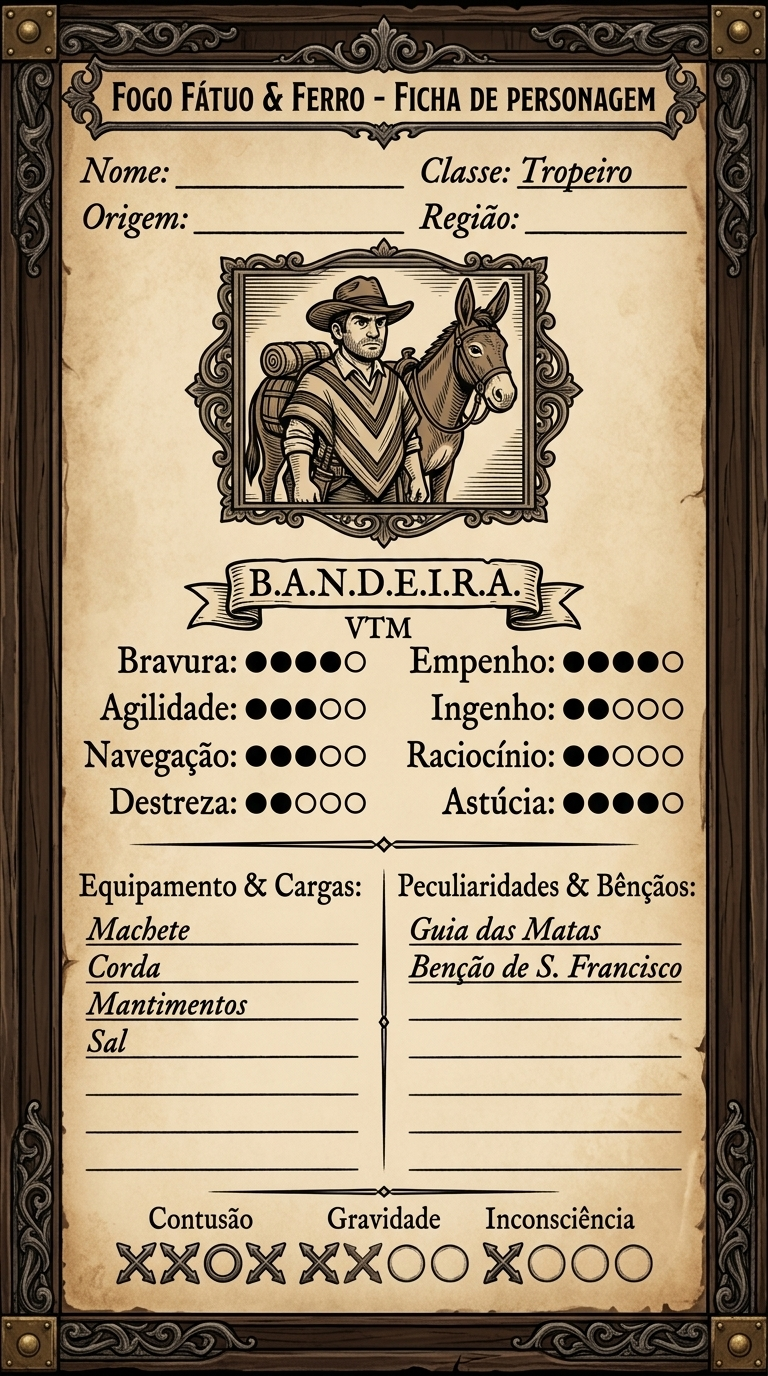
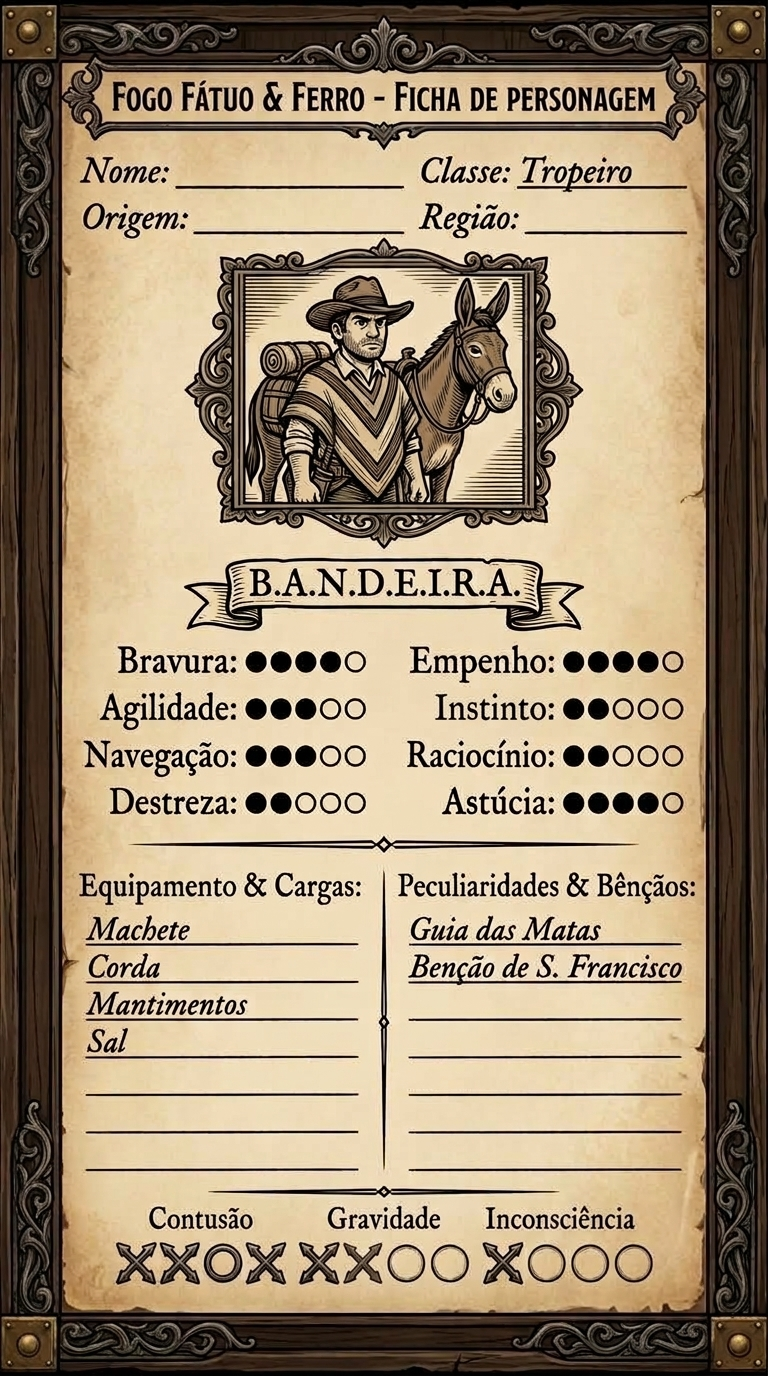
fix: atualizar o atributo I de BANDEIRA para Instinto em todas as fichas, regras e design visual da ficha

diff --git a/Docs/SISTEMA_BANDEIRA.md b/Docs/SISTEMA_BANDEIRA.md
@@ -55,12 +55,12 @@ O sistema **B.A.N.D.E.I.R.A.** é a matriz primária universal de atributos de *
   * Limite de peso de carga nas bruacas e inventário individual.
   * Resistência a venenos, febres da várzea e exaustão por sede ou fome.
 
-### 6. 🌿 I – Ingenho (Engenho / Intelecto)
-* **O que mede:** Conhecimento técnico de manufatura colonial, identificação de ervas e minérios, línguas/dialetos e manipulação de pólvora/ferro.
+### 6. 👁 I – Instinto
+* **O que mede:** Reação intuitiva, sexto sentido de sobrevivência na mata, leitura de perigo iminente, pressentimento e ação reflexiva sob pressão.
 * **Aplicações no Jogo:**
-  * Preparo de remédios, cataplasmas de copaíba e antídotos.
-  * Forja rápida de lâminas, reparo de armas de fogo e engenhocas de acampamento.
-  * Diálogo em múltiplos idiomas de 1645 (Português, Nheengatu/Tupi antigo, Holandês, Quimbundo).
+  * Notar emboscadas antes do primeiro golpe ou tiro.
+  * Reação visceral no combate (evitar golpes críticos e desarmes surpresa).
+  * Sentir a aproximação de entidades sobrenaturais pelo arrepio na espinha e silêncio da mata.
 
 ### 7. 🧠 R – Raciocínio
 * **O que mede:** Prontidão mental, concentração sob estresse, velocidade analítica e resistência a ilusões mentais.
@@ -80,11 +80,11 @@ O sistema **B.A.N.D.E.I.R.A.** é a matriz primária universal de atributos de *
 
 ## ⚖ Tabela Canônica dos Personagens e Entidades
 
-| Personagem / Entidade | B (Bravura) | A (Agilidade) | N (Navegação) | D (Destreza) | E (Empenho) | I (Ingenho) | R (Raciocínio) | A (Astúcia) | Foco Principal |
+| Personagem / Entidade | B (Bravura) | A (Agilidade) | N (Navegação) | D (Destreza) | E (Empenho) | I (Instinto) | R (Raciocínio) | A (Astúcia) | Foco Principal |
 | :--- | :---: | :---: | :---: | :---: | :---: | :---: | :---: | :---: | :--- |
 | 🤠 **O Tropeiro Paulista** | 3 | 2 | **5** | 3 | **4** | 3 | 3 | **5** | Navegação de Rotas, Cargas & Lábia Comercial |
-| 🏹 **Papa Pin (Nativo)** | 3 | **5** | **5** | **5** | 3 | 4 | 4 | 2 | Agilidade Máxima, Tiro Certeiro & Mata |
+| 🏹 **Papa Pin (Nativo)** | 3 | **5** | **5** | **5** | 3 | **4** | 4 | 2 | Agilidade Máxima, Tiro Certeiro & Mata |
 | ⚔ **Desertor da Coroa** | **4** | 2 | 2 | **4** | **4** | 3 | 3 | 2 | Combate Bélico, Pólvora & Resistência Física |
-| 🐗 **A Caipora** | **4** | 4 | **5** | 4 | **4** | 3 | 4 | 3 | Domínio da Fauna, Montaria & Emboscada |
-| 👹 **A Mula sem Cabeça** | **5** | **5** | 3 | 2 | **4** | 1 | 2 | **5** | Carga Rápida de Fogo & Aura de Pavor |
-| 🌿 **O Curupira (Reserva)**| 3 | **5** | **5** | 4 | 3 | 4 | **5** | **5** | Celeridade, Ilusão Mental & Sentido da Mata |
+| 🐗 **A Caipora** | **4** | 4 | **5** | 4 | **4** | **4** | 4 | 3 | Domínio da Fauna, Montaria & Emboscada |
+| 👹 **A Mula sem Cabeça** | **5** | **5** | 3 | 2 | **4** | 2 | 2 | **5** | Carga Rápida de Fogo & Aura de Pavor |
+| 🌿 **O Curupira (Reserva)**| 3 | **5** | **5** | 4 | 3 | **5** | **5** | **5** | Celeridade, Ilusão Mental & Sentido da Mata |

diff --git a/Fichas/Jogador - Desertor.md b/Fichas/Jogador - Desertor.md
@@ -14,7 +14,7 @@
 * **N – Navegação: 2** *(Depende de marcos de fronteira e estradas reais; perde-se facilmente na mata fechada virgem)*
 * **D – Destreza: 4** *(Especialista em armas de pólvora: pontaria cirúrgica com bacamarte, arcabuz e manuseio de pólvora)*
 * **E – Empenho: 4** *(Resistência férrea de trincheira, marchas forçadas e alta tolerância a ferimentos de batalha)*
-* **I – Ingenho: 3** *(Engenharia de campanha básica, manutenção de mecanismos de disparo e fortificação de acampamentos)*
+* **I – Instinto: 3** *(Reflexos de sobrevivência forjados em trincheiras; reage imediatamente ao menor estalo de galho ou cheiro de pólvora)*
 * **R – Raciocínio: 3** *(Prontidão tática militar; treinado para reconhecer formações inimigas e linhas de tiro)*
 * **A – Astúcia: 2** *(Marcado como traidor da Coroa; impõe mais temor e intimidação do que diplomacia)*
 

diff --git a/Fichas/Curupira.md b/Fichas/Curupira.md
@@ -19,7 +19,7 @@
 * **N – Navegação: 5** *(Onisciente em seu bioma; domina cada raiz, rio e desfiladeiro; impossível de ser rastreado)*
 * **D – Destreza: 4** *(Golpes certeiros de tacape de pau-brasil e armadilhas perfeitas com cipós da serra)*
 * **E – Empenho: 3** *(Corpo ágil de curumim; a própria floresta absorve parte dos impactos desferidos contra ele)*
-* **I – Ingenho: 4** *(Conhecimento botânico ancestral; manipula a flora para trancar caminhos e curar feras)*
+* **I – Instinto: 5** *(Instinto territorial supremo; pressente o peso de qualquer bota pisando em folha seca a léguas de distância)*
 * **R – Raciocínio: 5** *(Inteligência primordial e vigília eterna; impossível ser pego de surpresa no seu território)*
 * **A – Astúcia: 5** *(Mestre absoluto de ilusões acústicas, assobios que desorientam bússolas e barganhas com caçadores)*
 

diff --git a/Fichas/Mula sem Cabeça.md b/Fichas/Mula sem Cabeça.md
@@ -15,7 +15,7 @@
 * **N – Navegação: 3** *(Percorre velozmente estradas reais, pontes e encruzilhadas; evita entrar em brejos ou mata densa)*
 * **D – Destreza: 2** *(Ataques em carga frontal bruta e coices esmagadores; zero coordenação motora fina)*
 * **E – Empenho: 4** *(Corpo blindado por cascos de ferro incandescentes e fôlego eterno até o primeiro canto do galo)*
-* **I – Ingenho: 1** *(Instinto puramente amaldiçoado e predatório; desprovida de artifícios técnicos humanos)*
+* **I – Instinto: 2** *(Instinto furioso e selvagem; rastreia almas pelo cheiro de medo e culpa na calada da noite)*
 * **R – Raciocínio: 2** *(Faro aguçado para o cheiro de medo e culpa; incapaz de desvendar estratégias de emboscada)*
 * **A – Astúcia: 5** *(Aura de Pavor místico: sua aproximação impõe terror paralisante imediato em homens e animais)*
 

diff --git a/Fichas/Jogador - Nativo Batedor.md b/Fichas/Jogador - Nativo Batedor.md
@@ -14,7 +14,7 @@
 * **N – Navegação: 5** *(Onisciente no bioma; lê o voo das aves, correntes dos rios e rastros antigos na terra úmida)*
 * **D – Destreza: 5** *(Precisão cirúrgica no arco recurvo de madeira de lei, zarabatana e armadilhas de cipó)*
 * **E – Empenho: 3** *(Corpo enxuto e resistente; tolera sede e sol forte, mas não carrega fardos pesados de ferro)*
-* **I – Ingenho: 4** *(Conhecimento enciclopédico de ervas medicinais, raízes nutritivas e resinas de caça)*
+* **I – Instinto: 4** *(Simbiose primal com a floresta; arrepio na espinha ao notar predadores camuflados e venenos)*
 * **R – Raciocínio: 4** *(Foco mental aguçado; imune a desorientações sonoras simples e ilusões de estrada)*
 * **A – Astúcia: 2** *(Silencioso, reservado e direto; desconfia profundamente da lábia de mercadores das vilas)*
 

diff --git a/Fichas/Caipora.md b/Fichas/Caipora.md
@@ -15,7 +15,7 @@
 * **N – Navegação: 5** *(Dona de todas as picadas e tocas; tranca trilhas com espinhos e guia animais para a segurança)*
 * **D – Destreza: 4** *(Estocadas e chicotadas cirúrgicas com vara de pau-ferro/cipó para desarmar invasores)*
 * **E – Empenho: 4** *(Resistência vegetal rústica; couro batido da mata que amortece impactos e cansaço)*
-* **I – Ingenho: 3** *(Preparo de fumo alucinógeno de pito, extração de venenos de sapo e resinas anestésicas)*
+* **I – Instinto: 4** *(Sentido animal ancestral; lê o vento e antecipa a mira de caçadores antes do disparo)*
 * **R – Raciocínio: 4** *(Detecta intenções gananciosas a léguas de distância e reconhece armadilhas de ferro)*
 * **A – Astúcia: 3** *(Barganha dura: aceita fumo de corda para liberar passagem ou condena o caçador à perdição)*
 

diff --git a/Fichas/Jogador - Tropeiro.md b/Fichas/Jogador - Tropeiro.md
@@ -27,7 +27,7 @@
 * **N – Navegação: 5** *(Mestre absoluto das rotas de serra, atalhos clandestinos e pressentimento de chuvas)*
 * **D – Destreza: 3** *(Manejo preciso de laço de couro, facão de três listras e nós de amarras de carga)*
 * **E – Empenho: 4** *(Resistência excepcional a marchas diárias sob lama e frio; capacidade de carga dobrada pela mula)*
-* **I – Ingenho: 3** *(Conserta arreios, avalia pureza do sal/fumo e calcula pesos de balança)*
+* **I – Instinto: 3** *(Faro aguçado para mudanças de clima na serra; pressente quando a mula estaca de pavor antes de ver a fera)*
 * **R – Raciocínio: 3** *(Prontidão prática e faro aguçado para emboscadas de salteadores na curva da serra)*
 * **A – Astúcia: 5** *(Lábia comercial imbatível, barganha com mascates, diplomacia e contrabando com autoridades)*
 

diff --git a/Lembretes gerais/Regras.md b/Lembretes gerais/Regras.md
@@ -7,7 +7,7 @@ A matriz primária de estatísticas de todos os personagens e criaturas:
 * **N – Navegação:** Sentido de trilha, orientação no grid, rastreamento e revelação de picadas.
 * **D – Destreza:** Precisão de tiro à distância (arcos, bacamartes), desarmamento e ferramentas.
 * **E – Empenho:** Constituição física, cálculo de HP base e capacidade de fardo do inventário.
-* **I – Ingenho:** Conhecimento de ervas, forja/pólvora, línguas coloniais e mecanismos.
+* **I – Instinto:** Reação intuitiva, sexto sentido de sobrevivência, farejar emboscadas e agir no susto.
 * **R – Raciocínio:** Prontidão mental, resistência a ilusões místicas e identificação de fraquezas.
 * **A – Astúcia:** Presença social, lábia comercial, barganhas com espíritos e persuasão.
 
